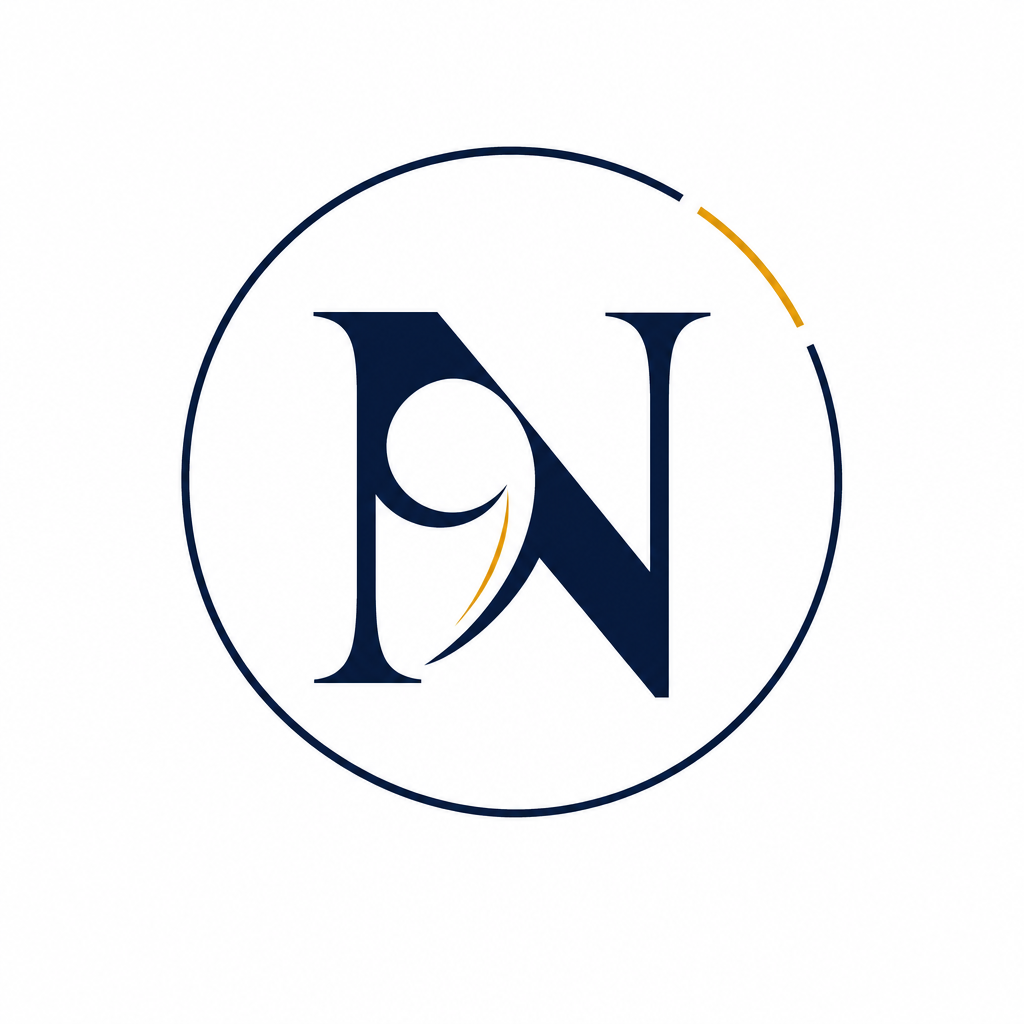
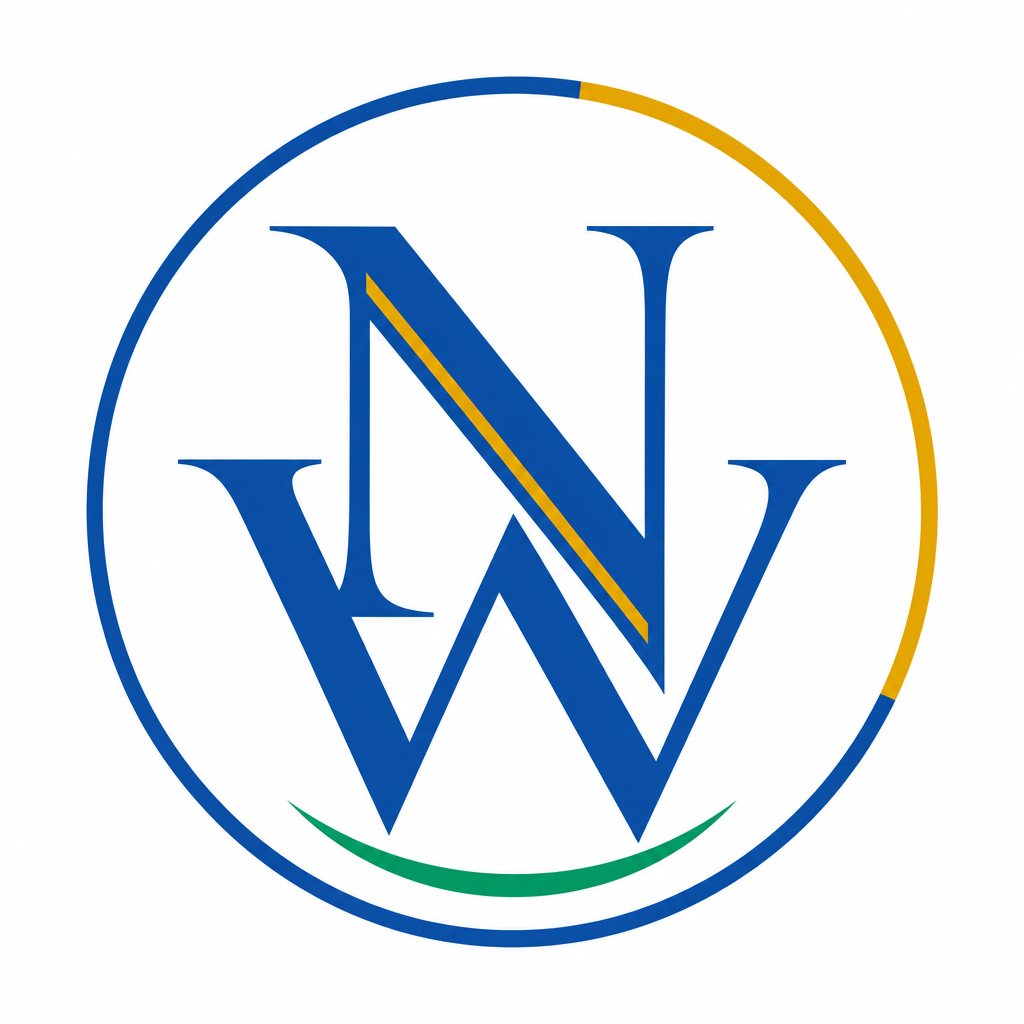
Add NW monogram and bold navy/gold/emerald theme that stays clearly blue.

diff --git a/src/app/globals.css b/src/app/globals.css
@@ -1,37 +1,41 @@
 @import "tailwindcss";
 
 :root {
-  --ink: #0f172a;
-  --ink-soft: #334155;
-  --mist: #f1f5f9;
-  --paper: #f8fafc;
-  --sea: #0f172a;
-  --sea-deep: #020617;
-  --sand: #f59e0b;
-  --gold: #f59e0b;
-  --gold-deep: #d97706;
-  --line: rgba(15, 23, 42, 0.12);
-  --glow: rgba(245, 158, 11, 0.16);
+  /* Bold NumoraWisdom palette — navy (not near-black) · gold · emerald */
+  --ink: #1e3f73;
+  --ink-soft: #3d5a80;
+  --mist: #e8f0fa;
+  --paper: #f5f8fc;
+  --sea: #2b5aa8;
+  --sea-deep: #1f4a8f;
+  --sand: #e8a317;
+  --gold: #e8a317;
+  --gold-deep: #c4840a;
+  --emerald: #0d9f6e;
+  --emerald-deep: #0a7d57;
+  --line: rgba(43, 90, 168, 0.18);
+  --glow: rgba(232, 163, 23, 0.22);
+  --glow-emerald: rgba(13, 159, 110, 0.16);
   --background: var(--paper);
   --foreground: var(--ink);
 
   /* Numerology system chrome */
-  --sys-pyth-bg: rgba(15, 23, 42, 0.06);
-  --sys-pyth-border: rgba(15, 23, 42, 0.2);
-  --sys-pyth-fg: #0f172a;
-  --sys-chal-bg: rgba(245, 158, 11, 0.12);
-  --sys-chal-border: rgba(217, 119, 6, 0.35);
+  --sys-pyth-bg: rgba(43, 90, 168, 0.08);
+  --sys-pyth-border: rgba(43, 90, 168, 0.28);
+  --sys-pyth-fg: #1e3f73;
+  --sys-chal-bg: rgba(232, 163, 23, 0.16);
+  --sys-chal-border: rgba(196, 132, 10, 0.4);
   --sys-chal-fg: #92400e;
-  --sys-vedic-bg: #0f172a;
-  --sys-vedic-border: rgba(245, 158, 11, 0.35);
+  --sys-vedic-bg: #2b5aa8;
+  --sys-vedic-border: rgba(232, 163, 23, 0.45);
   --sys-vedic-fg: #f8fafc;
-  --sys-vedic-muted: rgba(248, 250, 252, 0.72);
-  --sys-timing-bg: rgba(14, 116, 144, 0.1);
-  --sys-timing-border: rgba(14, 116, 144, 0.28);
-  --sys-timing-fg: #155e75;
-  --sys-astro-bg: rgba(100, 116, 139, 0.1);
-  --sys-astro-border: rgba(100, 116, 139, 0.28);
-  --sys-astro-fg: #334155;
+  --sys-vedic-muted: rgba(248, 250, 252, 0.78);
+  --sys-timing-bg: rgba(13, 159, 110, 0.12);
+  --sys-timing-border: rgba(13, 159, 110, 0.32);
+  --sys-timing-fg: #0a7d57;
+  --sys-astro-bg: rgba(61, 90, 128, 0.1);
+  --sys-astro-border: rgba(61, 90, 128, 0.28);
+  --sys-astro-fg: #3d5a80;
 }
 
 @theme inline {
@@ -46,15 +50,18 @@
   --color-sand: var(--sand);
   --color-gold: var(--gold);
   --color-gold-deep: var(--gold-deep);
+  --color-emerald: var(--emerald);
+  --color-emerald-deep: var(--emerald-deep);
   --font-sans: var(--font-body);
   --font-display: var(--font-display);
 }
 
 body {
   background:
-    radial-gradient(1100px 560px at 8% -12%, rgba(245, 158, 11, 0.14), transparent 55%),
-    radial-gradient(900px 480px at 92% 0%, rgba(15, 23, 42, 0.08), transparent 50%),
-    linear-gradient(180deg, #f8fafc 0%, #f1f5f9 55%, #eef2f7 100%);
+    radial-gradient(1100px 560px at 8% -12%, rgba(232, 163, 23, 0.2), transparent 55%),
+    radial-gradient(900px 520px at 92% 4%, rgba(13, 159, 110, 0.14), transparent 52%),
+    radial-gradient(800px 420px at 50% 100%, rgba(43, 90, 168, 0.12), transparent 55%),
+    linear-gradient(180deg, #f5f8fc 0%, #e8f0fa 50%, #e2eef5 100%);
   color: var(--foreground);
   font-family: var(--font-body), Georgia, serif;
   min-height: 100vh;
@@ -165,7 +172,7 @@ button:not(:disabled):not([aria-disabled="true"]):hover,
 [type="reset"]:not(:disabled):hover,
 .btn-tactile:not([aria-disabled="true"]):hover {
   filter: brightness(1.06);
-  box-shadow: 0 3px 10px rgba(15, 23, 42, 0.1);
+  box-shadow: 0 3px 10px rgba(43, 90, 168, 0.16);
   transform: translateY(-1px);
 }
 
@@ -175,7 +182,7 @@ button:not(:disabled):not([aria-disabled="true"]):active,
 [type="reset"]:not(:disabled):active,
 .btn-tactile:not([aria-disabled="true"]):active {
   filter: brightness(0.97);
-  box-shadow: 0 1px 3px rgba(15, 23, 42, 0.08);
+  box-shadow: 0 1px 3px rgba(43, 90, 168, 0.12);
   transform: translateY(0);
 }
 
@@ -212,13 +219,13 @@ a.rounded-full {
 
 a.rounded-full:hover {
   filter: brightness(1.05);
-  box-shadow: 0 3px 10px rgba(15, 23, 42, 0.1);
+  box-shadow: 0 3px 10px rgba(43, 90, 168, 0.16);
   transform: translateY(-1px);
 }
 
 a.rounded-full:active {
   filter: brightness(0.98);
-  box-shadow: 0 1px 3px rgba(15, 23, 42, 0.08);
+  box-shadow: 0 1px 3px rgba(43, 90, 168, 0.12);
   transform: translateY(0);
 }
 

diff --git a/src/app/page.tsx b/src/app/page.tsx
@@ -40,13 +40,13 @@ export default async function HomePage() {
             <div className="mt-8 flex flex-wrap gap-3">
               <Link
                 href={email ? "/report/new" : "/login?next=/report/new"}
-                className="rounded-full bg-ink px-6 py-3 text-paper transition hover:bg-sea-deep"
+                className="rounded-full bg-sea px-6 py-3 text-paper shadow-sm transition hover:bg-sea-deep"
               >
                 Begin a reading
               </Link>
               <Link
                 href={email ? "/dashboard" : "/login"}
-                className="rounded-full border border-[var(--line)] bg-white/60 px-6 py-3 text-ink transition hover:bg-white"
+                className="rounded-full border-2 border-emerald bg-white/70 px-6 py-3 text-ink transition hover:bg-emerald/10"
               >
                 {email ? "Your dashboard" : "Sign in with email"}
               </Link>
@@ -54,11 +54,12 @@ export default async function HomePage() {
           </div>
 
           <div className="animate-rise-delay relative flex items-center justify-center">
-            <div className="animate-drift absolute h-56 w-56 rounded-full bg-gold/20 blur-3xl" />
+            <div className="animate-drift absolute h-56 w-56 rounded-full bg-gold/25 blur-3xl" />
+            <div className="animate-drift absolute h-40 w-40 translate-x-10 translate-y-8 rounded-full bg-emerald/20 blur-3xl" />
             <div className="animate-ring relative">
               <Image
-                src="/numora-mark.png"
-                alt={`${BRAND_NAME} mark — NW initials with a hidden nine`}
+                src="/nw-mark.png"
+                alt={`${BRAND_NAME} mark — NW monogram`}
                 width={420}
                 height={420}
                 className="relative z-10 h-auto w-full max-w-md drop-shadow-sm"

diff --git a/src/components/SiteHeader.tsx b/src/components/SiteHeader.tsx
@@ -43,7 +43,7 @@ export function SiteHeader({ email }: Props) {
       <div className="flex flex-wrap items-center justify-between gap-3">
         <Link href="/" className="flex shrink-0 items-center gap-2.5">
           <Image
-            src="/numora-mark.png"
+            src="/nw-mark.png"
             alt={BRAND_NAME}
             width={36}
             height={36}
@@ -56,7 +56,7 @@ export function SiteHeader({ email }: Props) {
         {!email ? (
           <Link
             href="/login"
-            className="rounded-full bg-ink px-4 py-2 text-sm text-paper transition hover:bg-sea-deep"
+            className="rounded-full bg-sea px-4 py-2 text-sm text-paper transition hover:bg-sea-deep"
           >
             Sign in
           </Link>

diff --git a/src/app/layout.tsx b/src/app/layout.tsx
@@ -20,7 +20,7 @@ export const metadata: Metadata = {
     "Personal numerology reports from Pythagorean, Chaldean, Vedic, and Lo Shu traditions. Belief-based insight for self-reflection.",
   icons: {
     icon: "/favicon.png",
-    apple: "/numora-mark.png",
+    apple: "/nw-mark.png",
   },
 };
 
